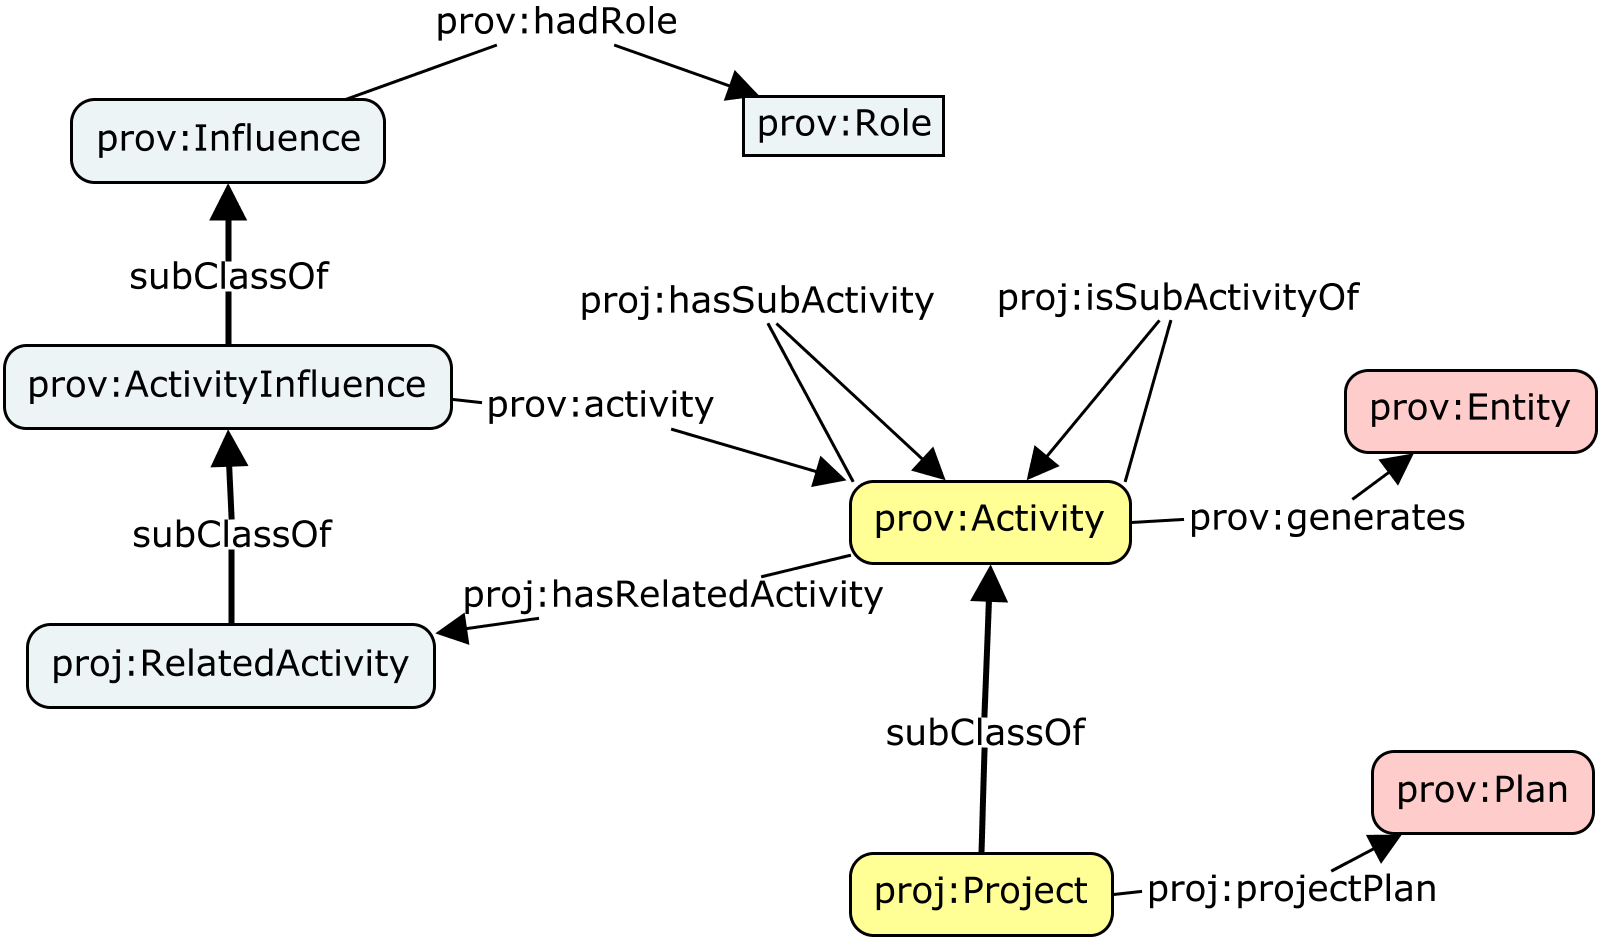
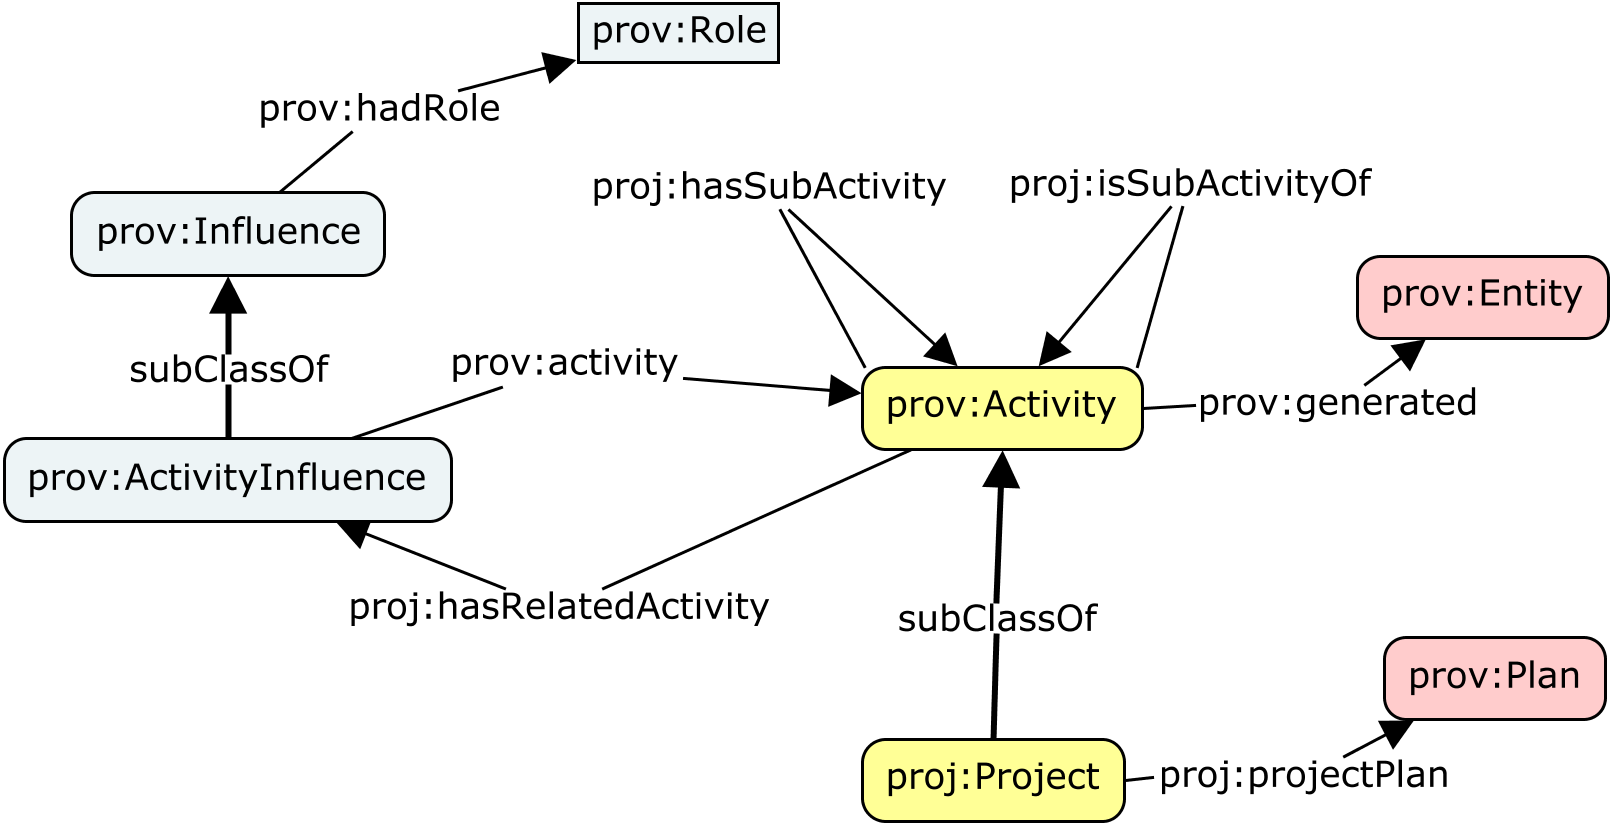
Don't need RelatedActivity class. Just use prov:ActivityInfluence

diff --git a/project/index.html b/project/index.html
@@ -311,14 +311,14 @@
         </figcaption>
       </figure>
       <p>
-        The core class in the ontology is <a href="#proj:Project">proj:Project</a> which is intended to be applicable to a broad range of project types.
+        The core class in the PROJECT ontology is <a href="#proj:Project">proj:Project</a> which is intended to be applicable to a broad range of project types.
         A <i>project</i> is a planned activity that generates outputs, and is modelled as a specialization of the <a href="https://www.w3.org/TR/prov-o/#Activity">prov:Activity</a> class.
       </p>
       <p>
         A project or activity is typically organized through a set of sub-activities, which may be undertaken concurrently or consecutively, and may themselves be composed of further sub-activities.
         Basic structure is captured through the <a href="#proj:hasSubActivity">proj:hasSubActivity</a> and <a href="#proj:isSubActivityOf">proj:isSubActivityOf</a> properties.
         A project or activity is often related to or influenced by other activities, captured through the <a href="#proj:hasRelatedActivity">proj:hasRelatedActivity</a> property.
-        Details of each relationship are captured as properties of the individual <a href="#proj:RelatedActivity">proj:RelatedActivity</a>, using the <a href="https://www.w3.org/TR/prov-o/#hadRrole">prov:hadRole</a> and <a href="https://www.w3.org/TR/prov-o/#activity">prov:activity</a> properties, plus other properties as required.
+        Details of each relationship are captured as properties of the individual <a href="https://www.w3.org/TR/prov-o/#ActivityInfluence">prov:ActivityInfluence</a>, using the <a href="https://www.w3.org/TR/prov-o/#hadRrole">prov:hadRole</a> and <a href="https://www.w3.org/TR/prov-o/#activity">prov:activity</a> properties, plus other properties as required.
       </p>
     </section>
 
@@ -483,7 +483,6 @@
             <b>Classes:</b>
             | <a href="#proj:FundingAssociation">FundingAssociation</a>
             | <a href="#proj:Project">Project</a>
-            | <a href="#proj:RelatedActivity">RelatedActivity</a>
             | <a href="#proj:ResearchProject">ResearchProject</a>
             | <a href="#proj:SumOfMoney">SumOfMoney</a>
             |
@@ -754,23 +753,9 @@
               <tbody>
                 <tr><td class="prop">Type:</td><td><a href="http://www.w3.org/2002/07/owl#ObjectProperty">owl:ObjectProperty</a></td></tr>
                 <tr><td class="prop">Domain:</td><td><a href="http://www.w3.org/ns/prov#Activity">prov:Activity</a></td></tr>
-                <tr><td class="prop">Range:</td><td><a href="http://www.w3.org/ns/project#RelatedActivity">proj:RelatedActivity</a></td></tr>
+                <tr><td class="prop">Range:</td><td><a href="http://www.w3.org/ns/prov#ActivityInfluence">prov:ActivityInfluence</a></td></tr>
+                <tr><td class="prop">inverseOf:</td><td><a href="http://www.w3.org/ns/prov#activity">prov:activity</a></td></tr>
                 <tr><td class="prop">Usage note:</td><td> </td></tr>
-              </tbody>
-            </table>
-          </section>
-          <section id="proj:RelatedActivity">
-            <h4>Class: RelatedActivity</h4>
-            <p>
-              Association class to support description of a related activity.
-            </p>
-
-            <table class="definition">
-              <thead><tr><th>RDF Class:</th><th><a href="http://www.w3.org/ns/project#RelatedActivity">proj:RelatedActivity</a></th></tr></thead>
-              <tbody>
-                <tr><td class="prop">Type:</td><td><a href="http://www.w3.org/2002/07/owl#Class">owl:Class</a></td></tr>
-                <tr><td class="prop">subClassOf:</td><td><a href="http://www.w3.org/ns/prov#ActivityInfluence">prov:ActivityInfluence</a></td></tr>
-                <tr><td class="prop">Usage note:</td><td></td></tr>
               </tbody>
             </table>
           </section>
